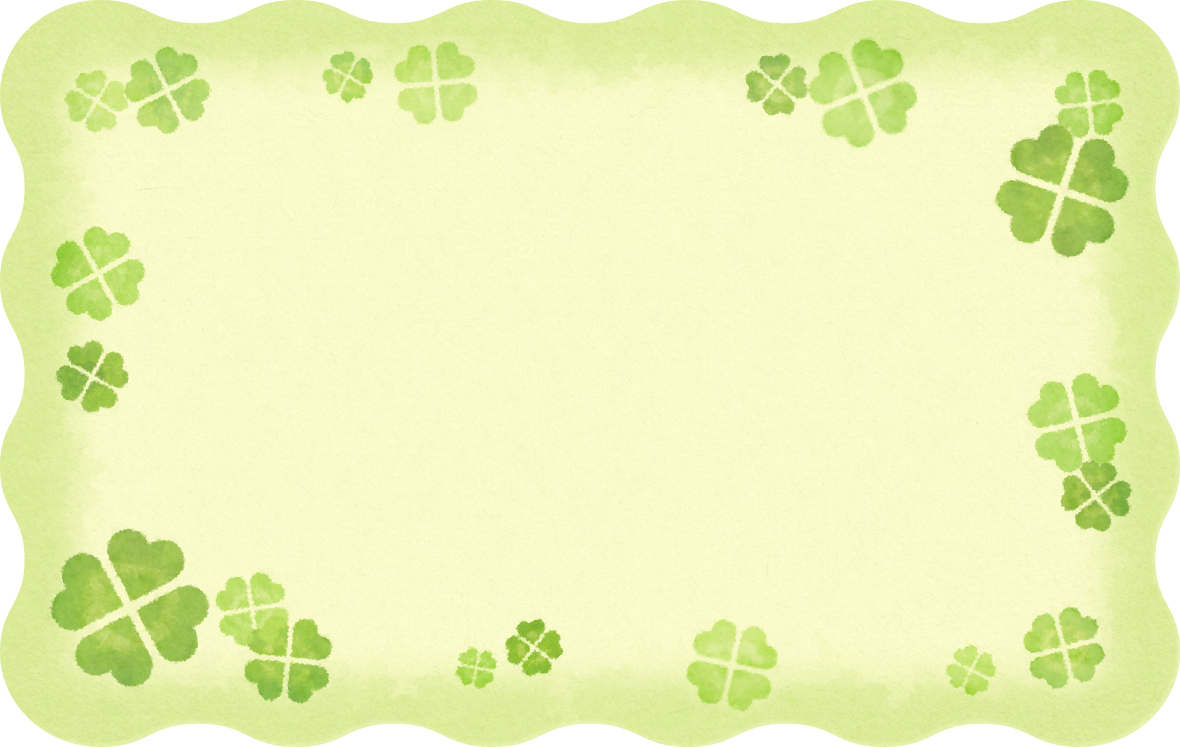
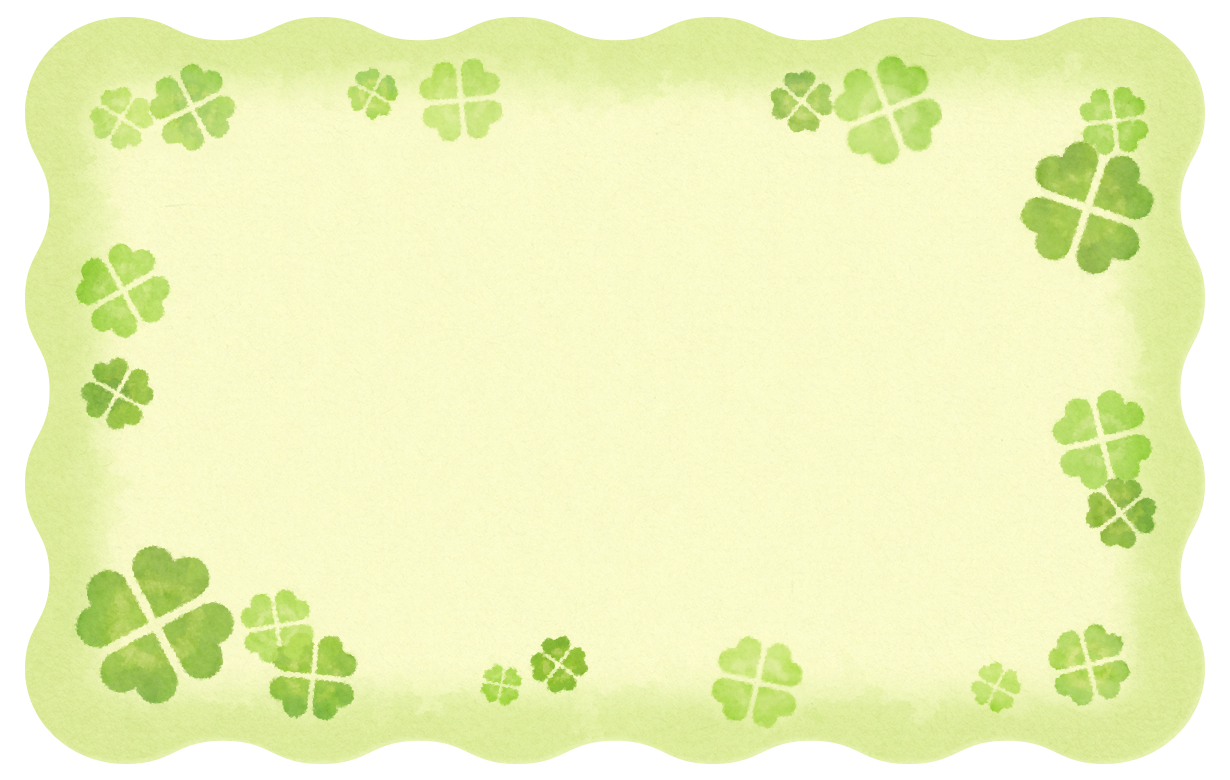
Update padding to new margins

Changed region(s): [[0.0, 0.0, 1.0, 1.0], [0.2746, 0.0, 0.8542, 0.2155], [0.3661, 0.8005, 0.4881, 0.9237]]

diff --git a/app/components/Card/Card.tsx b/app/components/Card/Card.tsx
@@ -55,7 +55,7 @@ export default function Card({ type = CardName.Airmail }: { type?: CardName }) {
   return (
     <div className={`card ${getCssClass(type)}`} key={type}>
       <div className="card-start">
-        Dear Fink,
+        Dear future Idrees,
       </div>
       <div className="card-message" contentEditable={true}>
         Congratulations on your big move! We hope you enjoy your new island life. To celebrate this fresh start, we'd like to give you a gift that is sure to come in handy!

diff --git a/app/components/Card/Card.css b/app/components/Card/Card.css
@@ -14,9 +14,9 @@
 }
 
 :root {
-	--card-vertical-padding: 7.5%;
-	--card-horizontal-padding: 9.4%;
-	--card-scale: 0.4;
+	--card-horizontal-padding: 10.9%;
+	--card-vertical-padding: 9.5%;
+	--card-scale: 0.35;
 	--card-start-color: #010101;
 	--card-message-color: #010101;
 	--card-signature-color: #010101;
